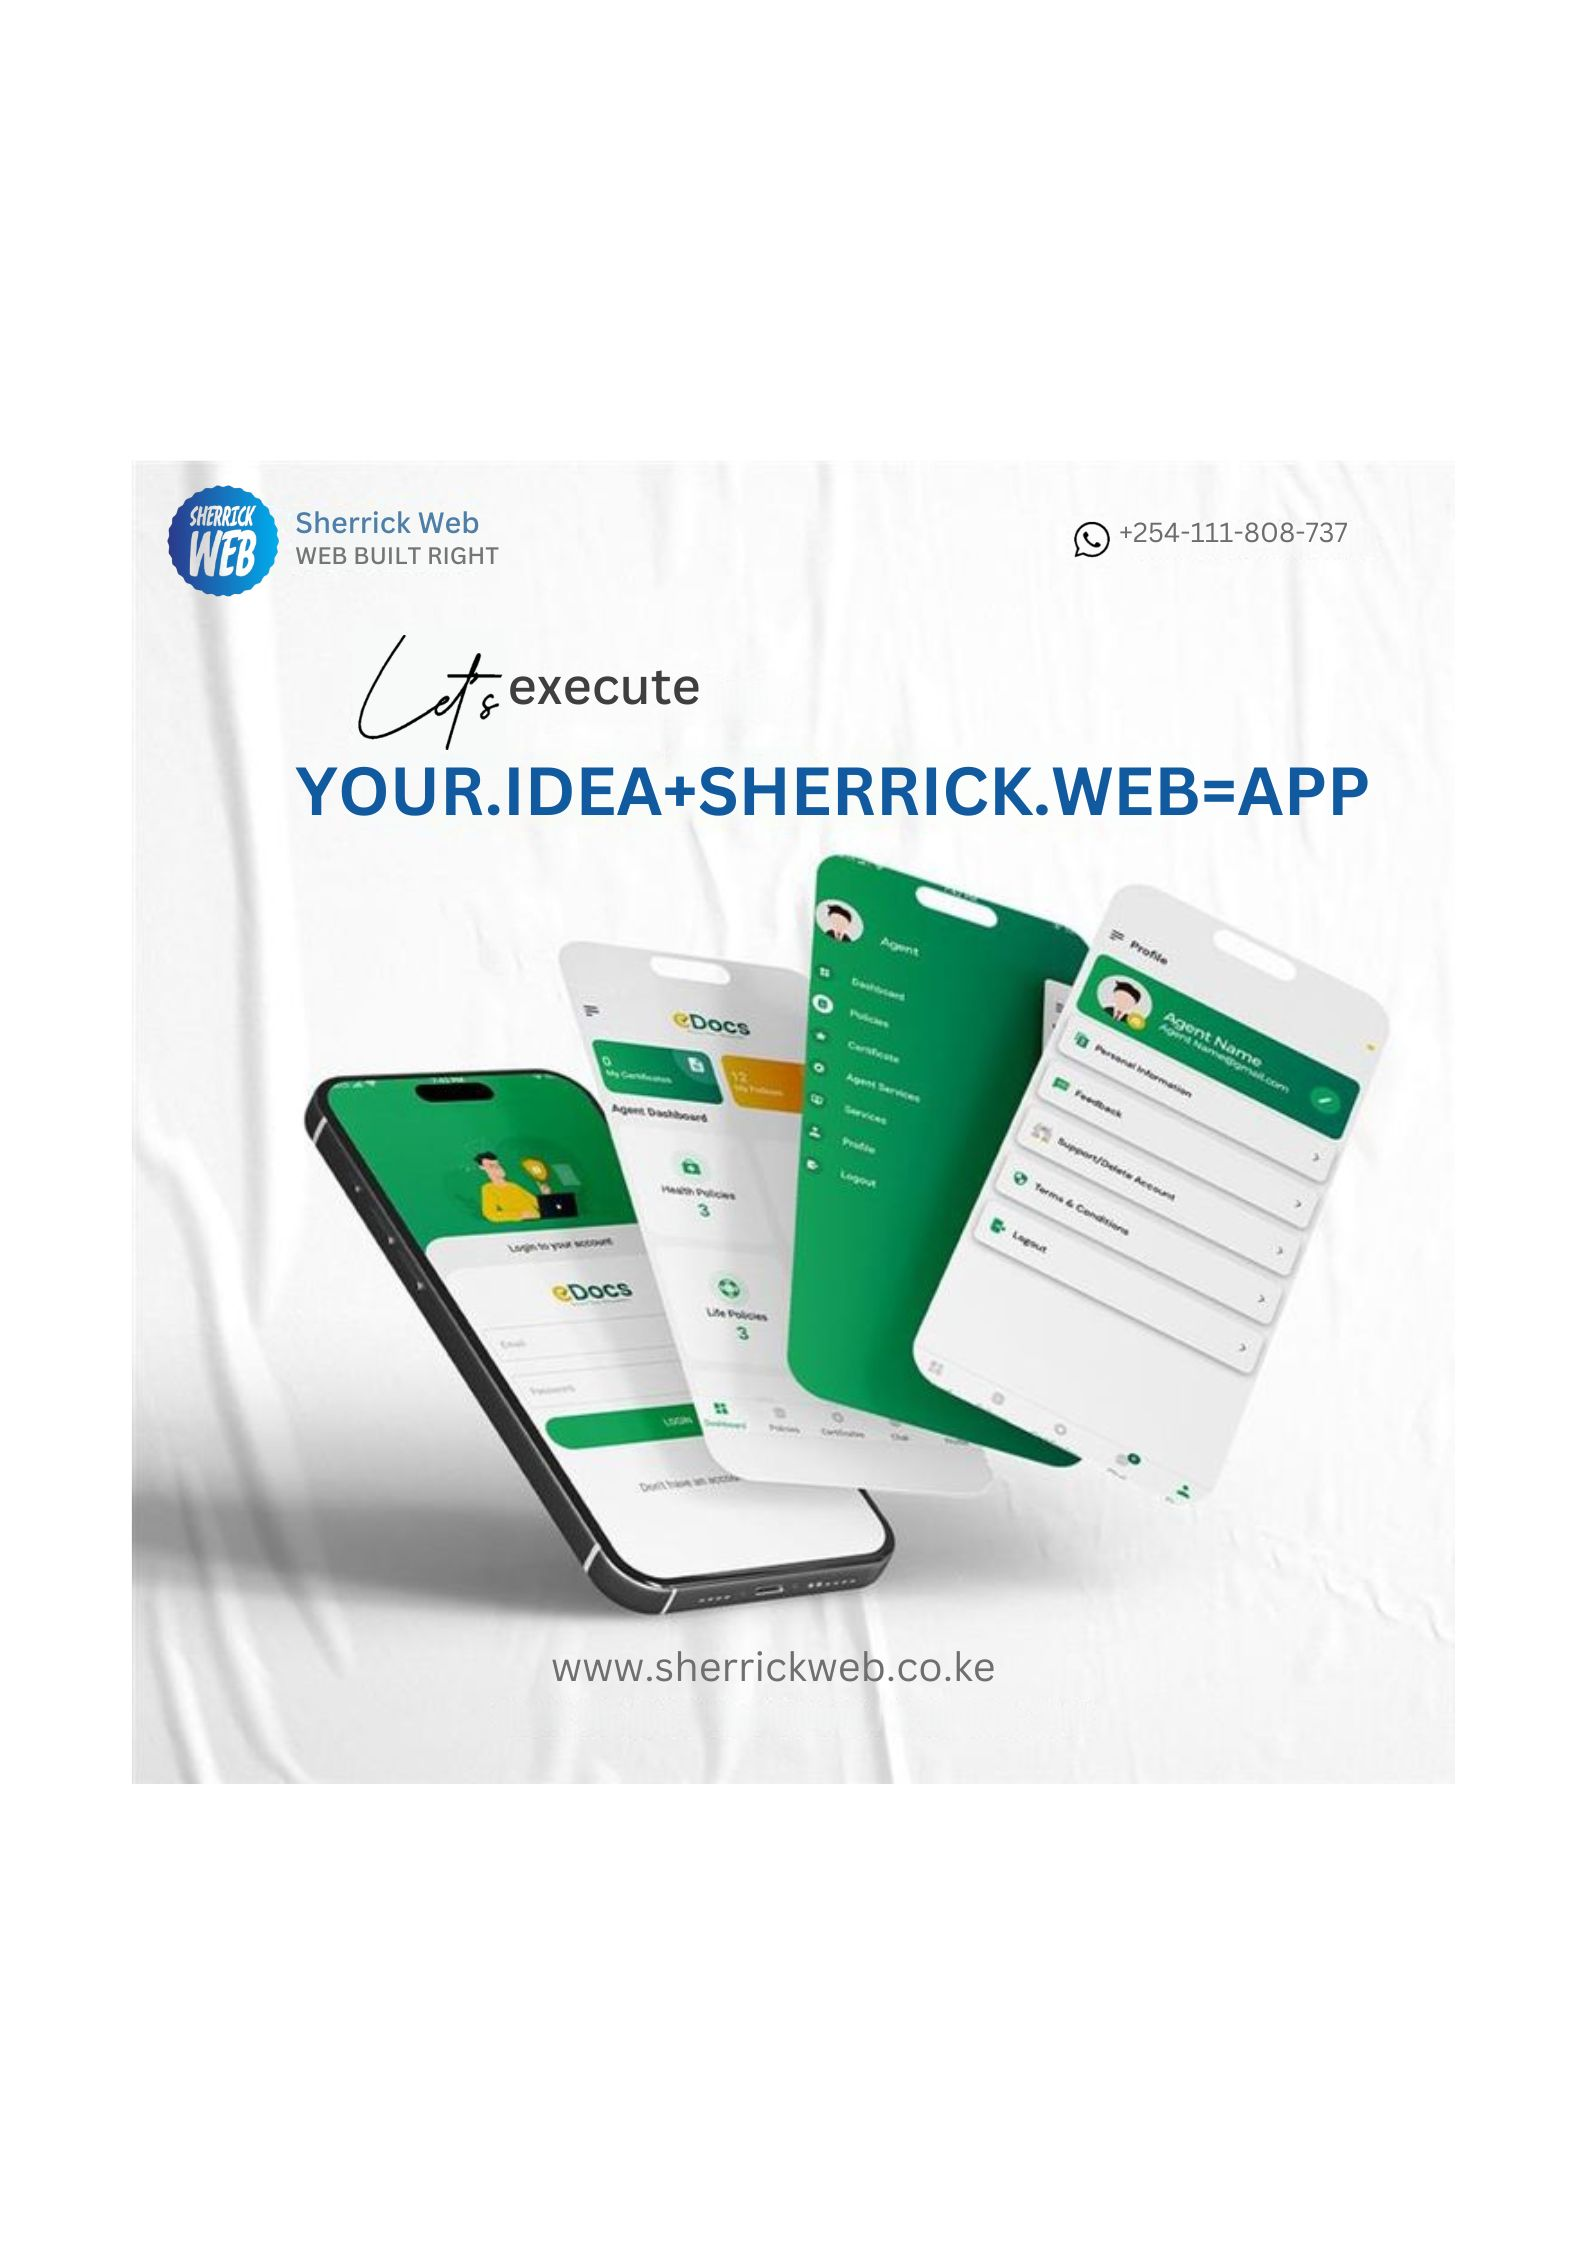
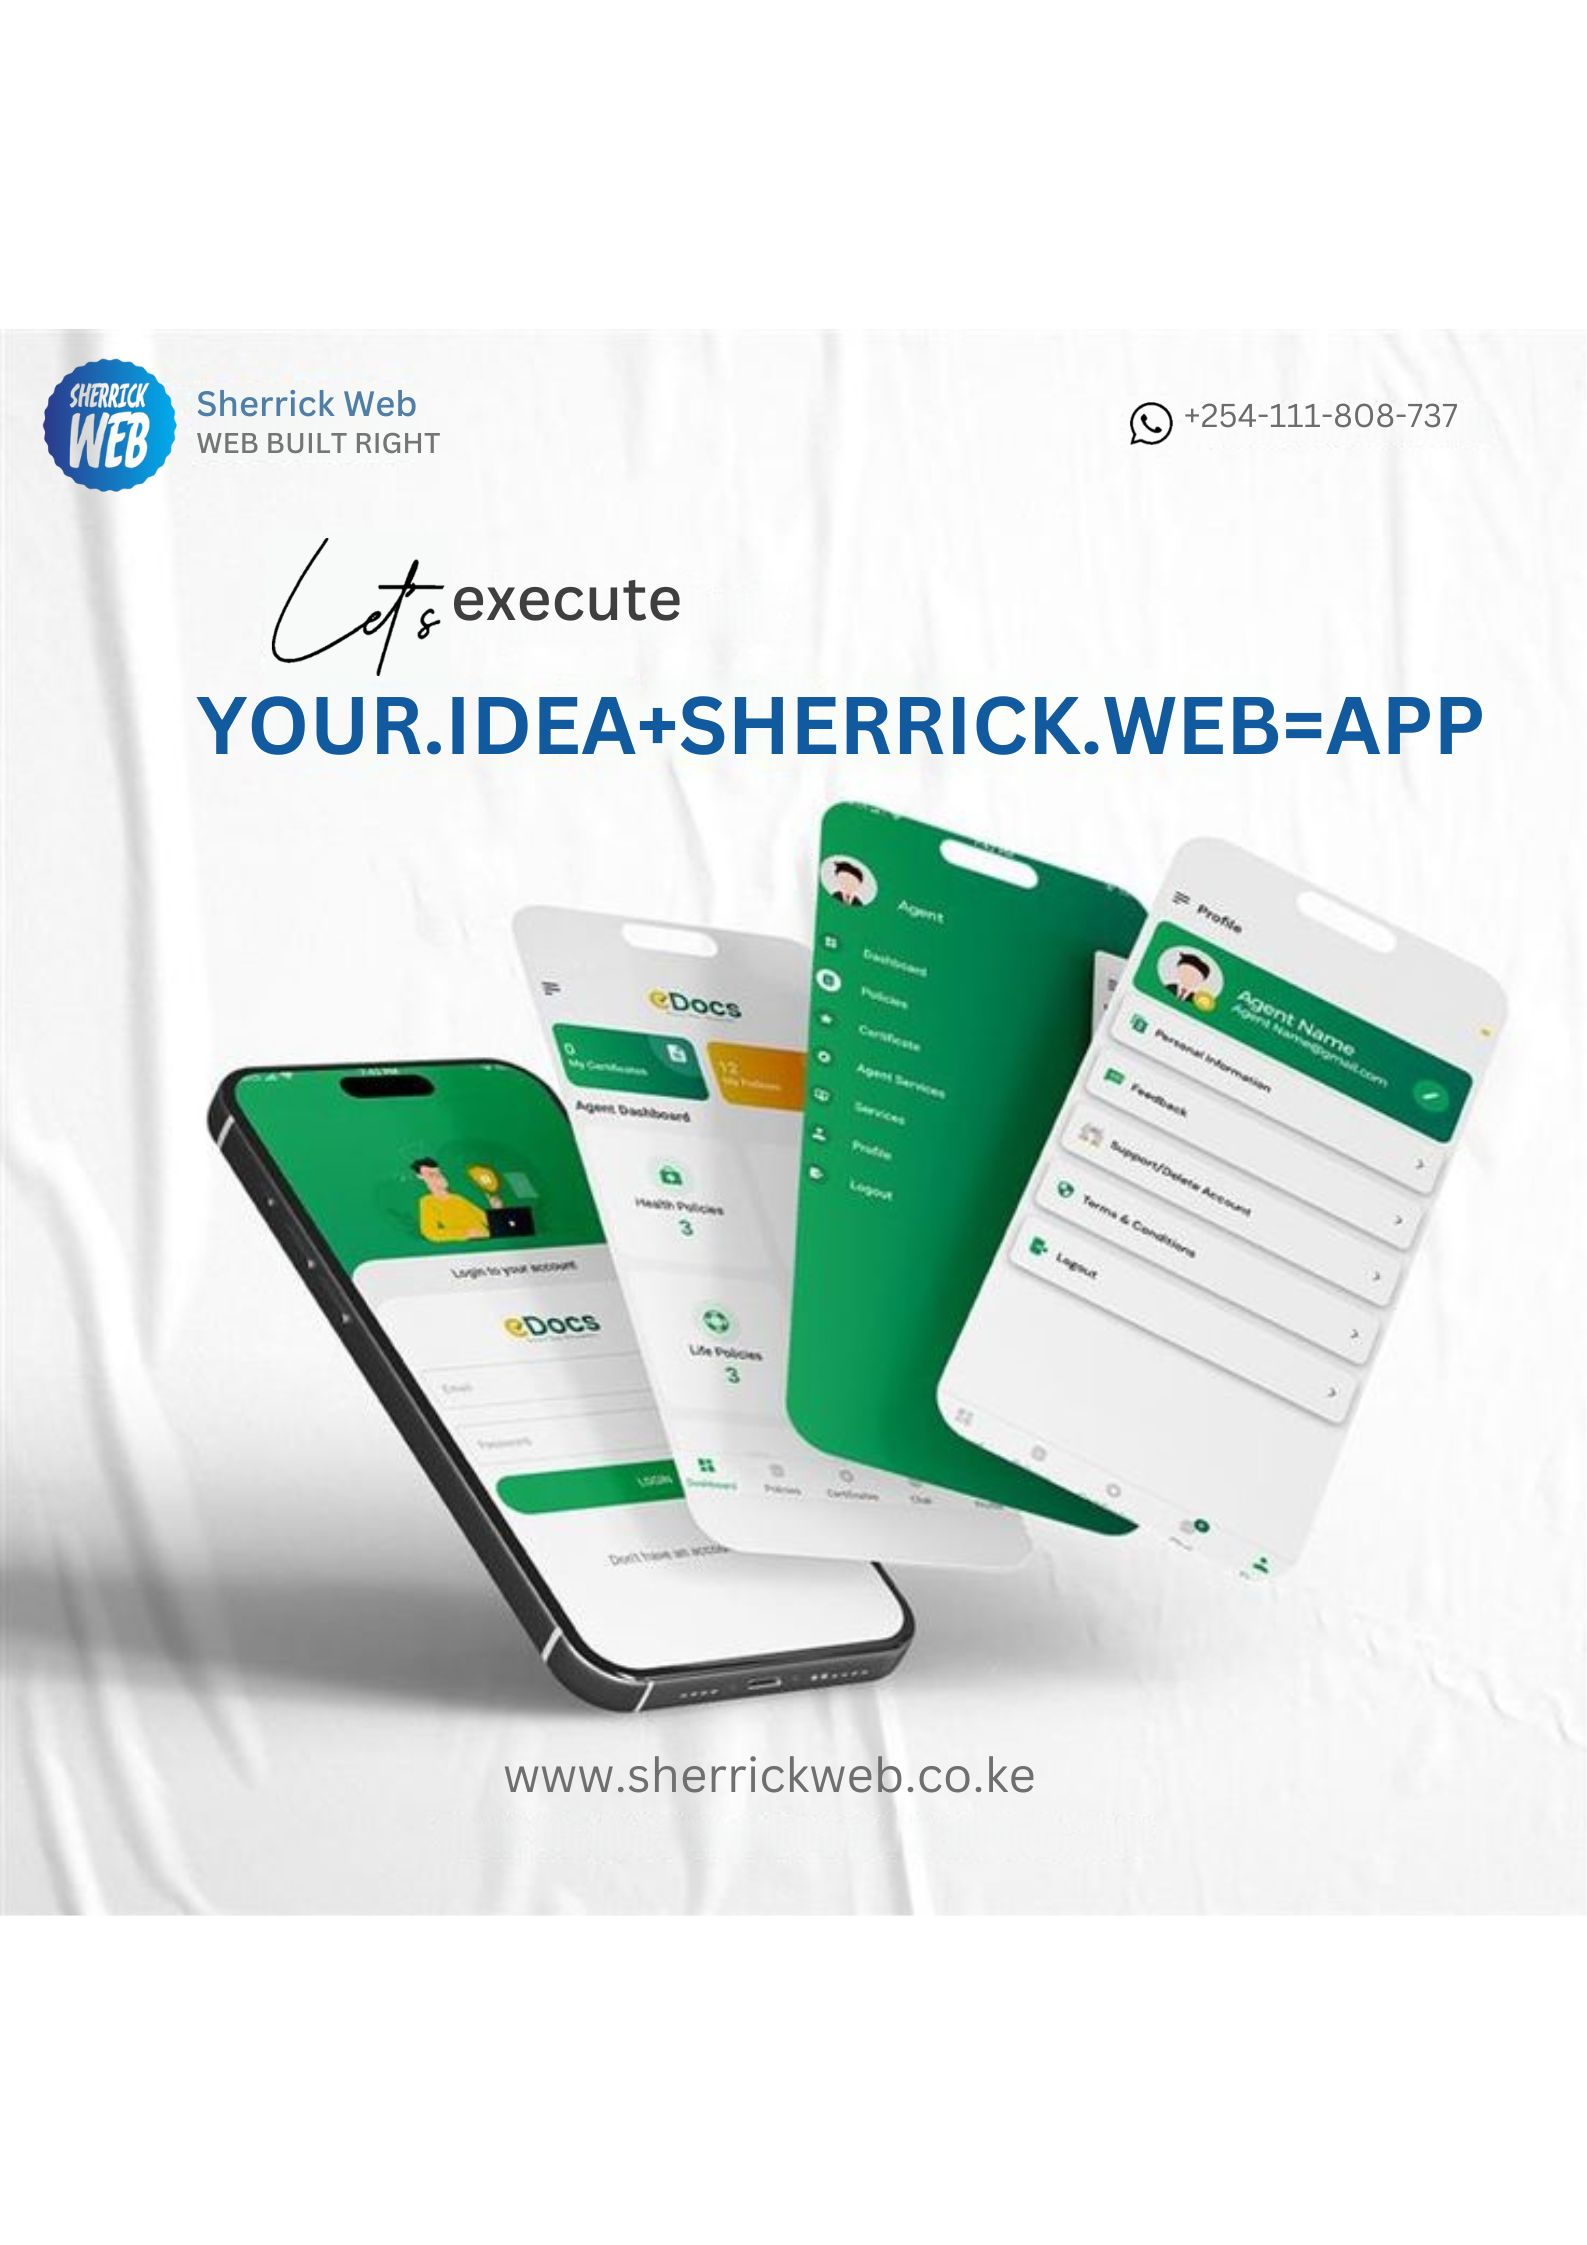
truce

diff --git a/partials/center.html b/partials/center.html
@@ -79,7 +79,7 @@
           <div class="point-card">
             
       <div class="image-stack">
-            <img src="/sherrickweb-img/app-dev-1.jpg" width="308px" height="240px"alt="Sherrick Web" class="front-poster">
+            <img src="/sherrickweb-img/app-dev-2.jpg" width="308px" height="240px"alt="Sherrick Web" class="front-poster">
             <img src="/sherrickweb-img/mobile-app.jpg" width="80" height="80" alt="Web dev icon & tag" class="overlay-poster">
           </div>
         </div>

diff --git a/style.css b/style.css
@@ -1217,7 +1217,7 @@ line-height: 1.6;
   right: 16px;
   width: 80px;
   height: 80px;
-  border-radius: 50%;
+  border-radius: 5%;
   object-fit: cover;
   /* Start hidden & scaled down */
   opacity: 0;
